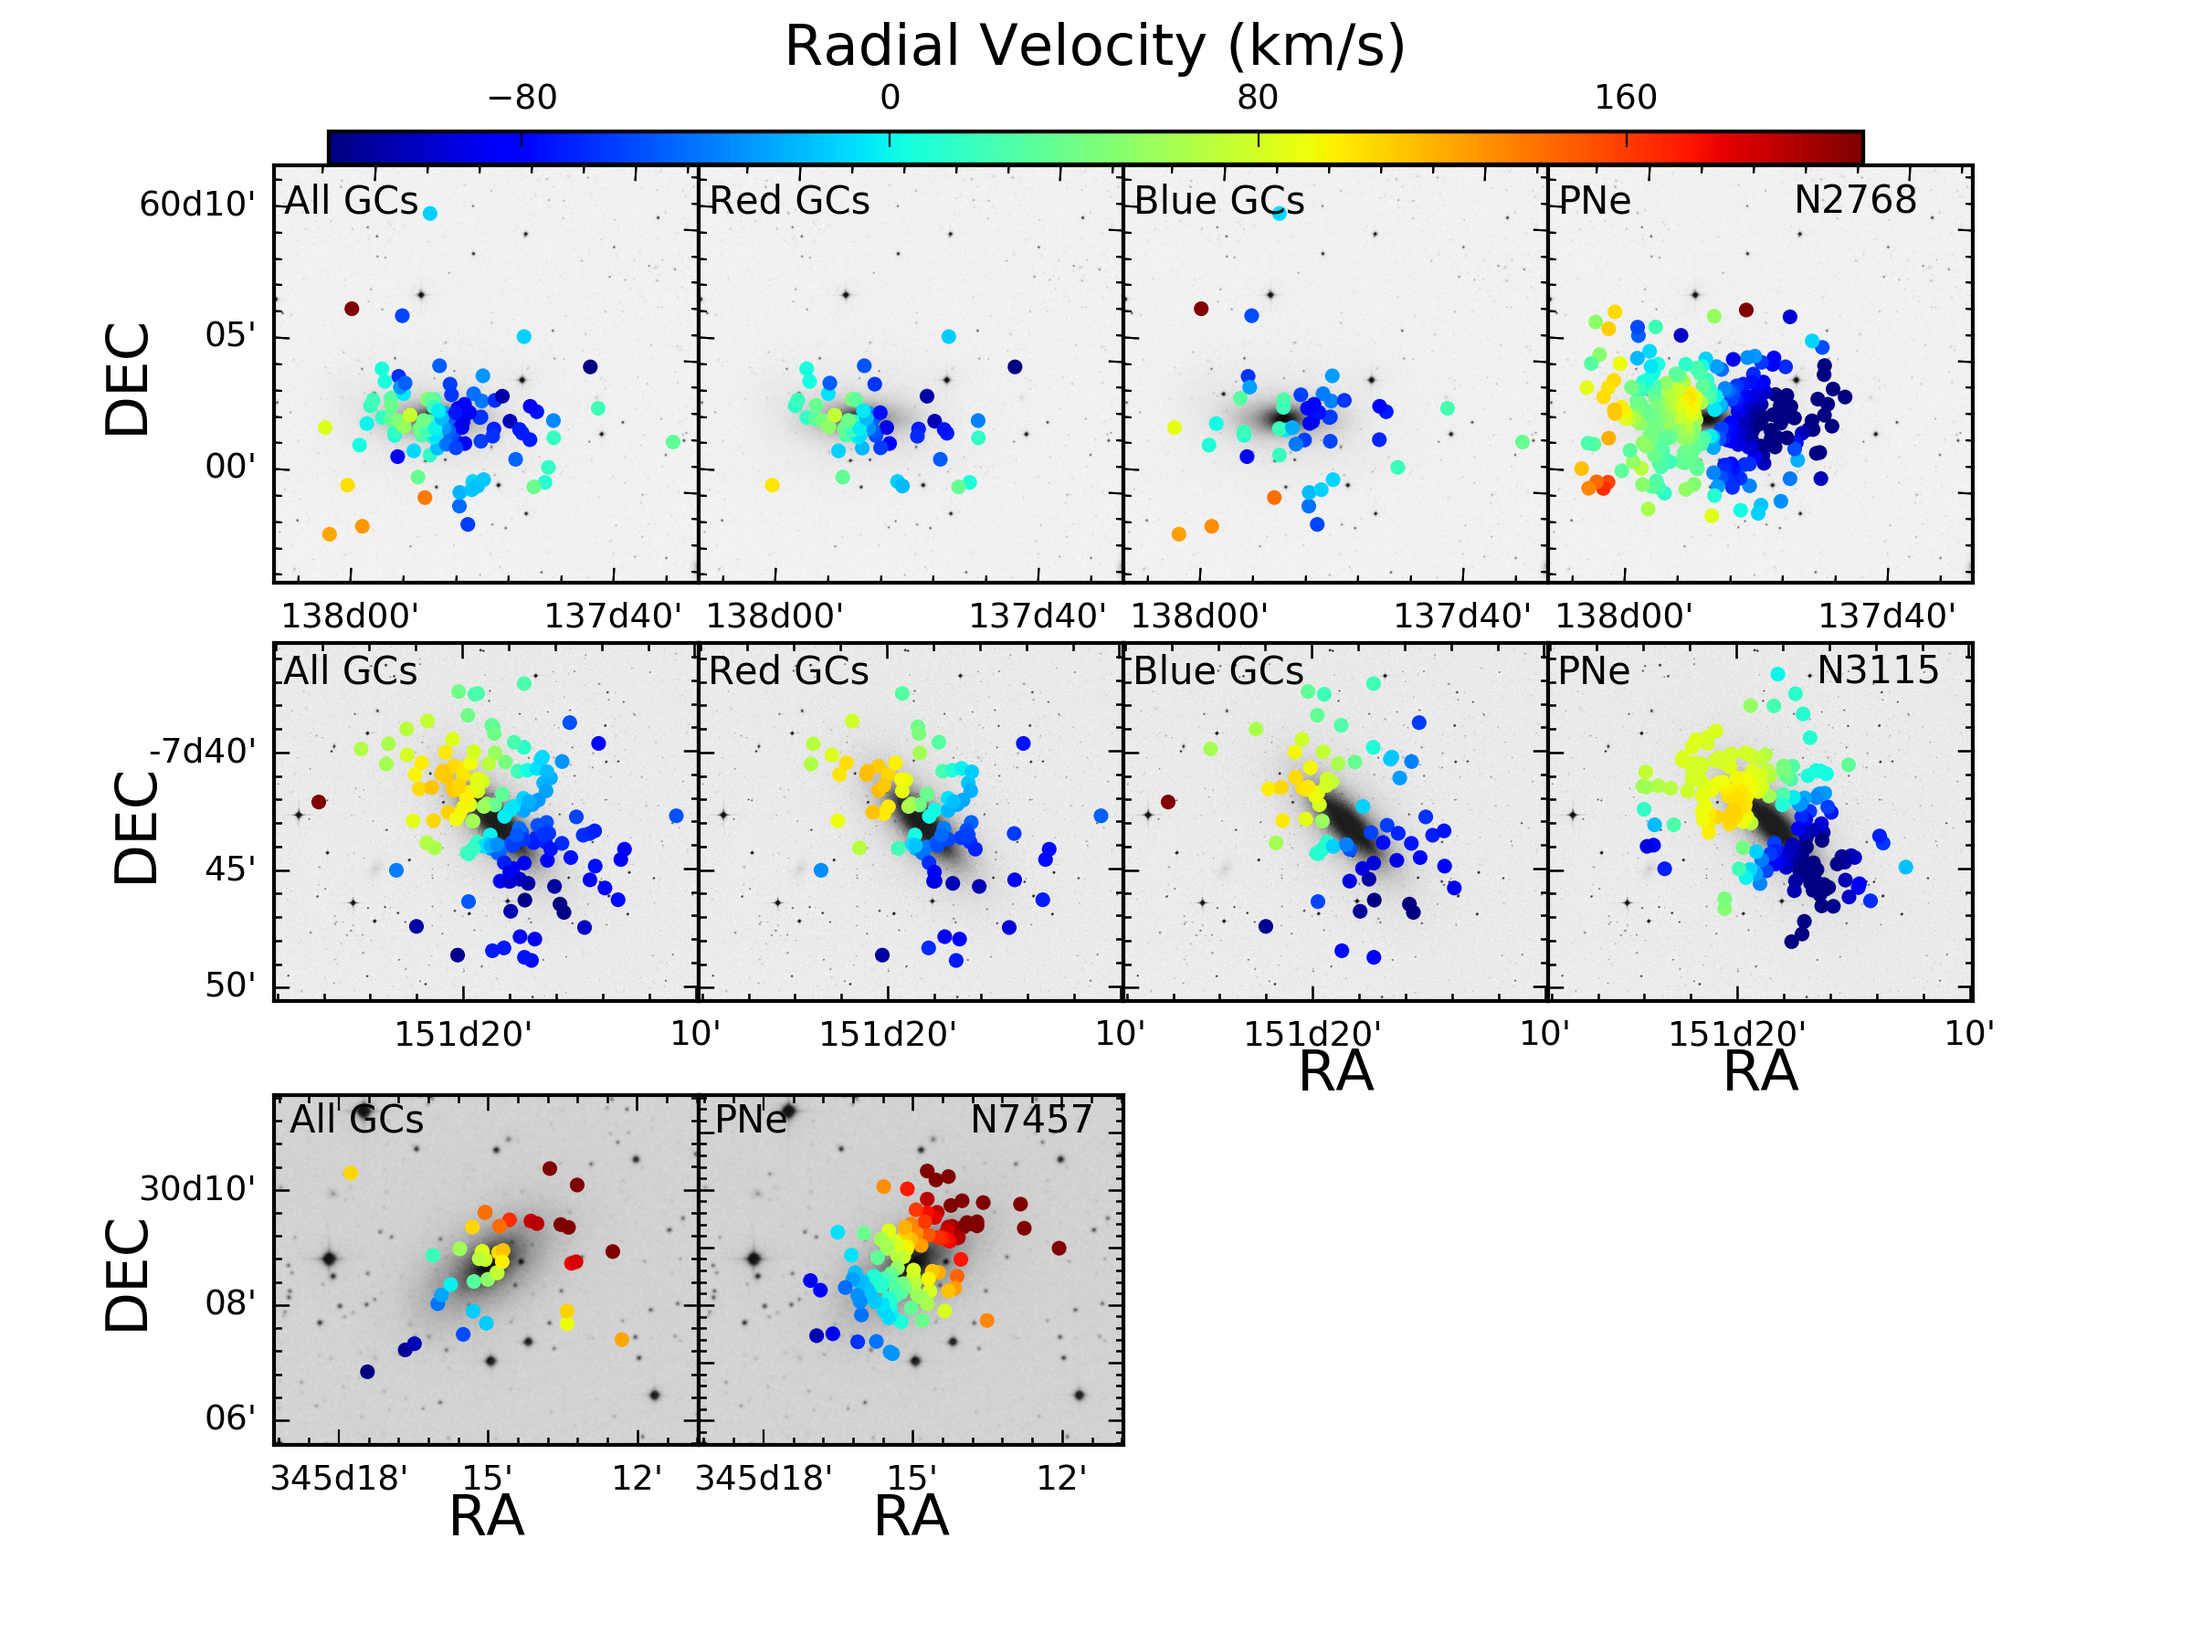
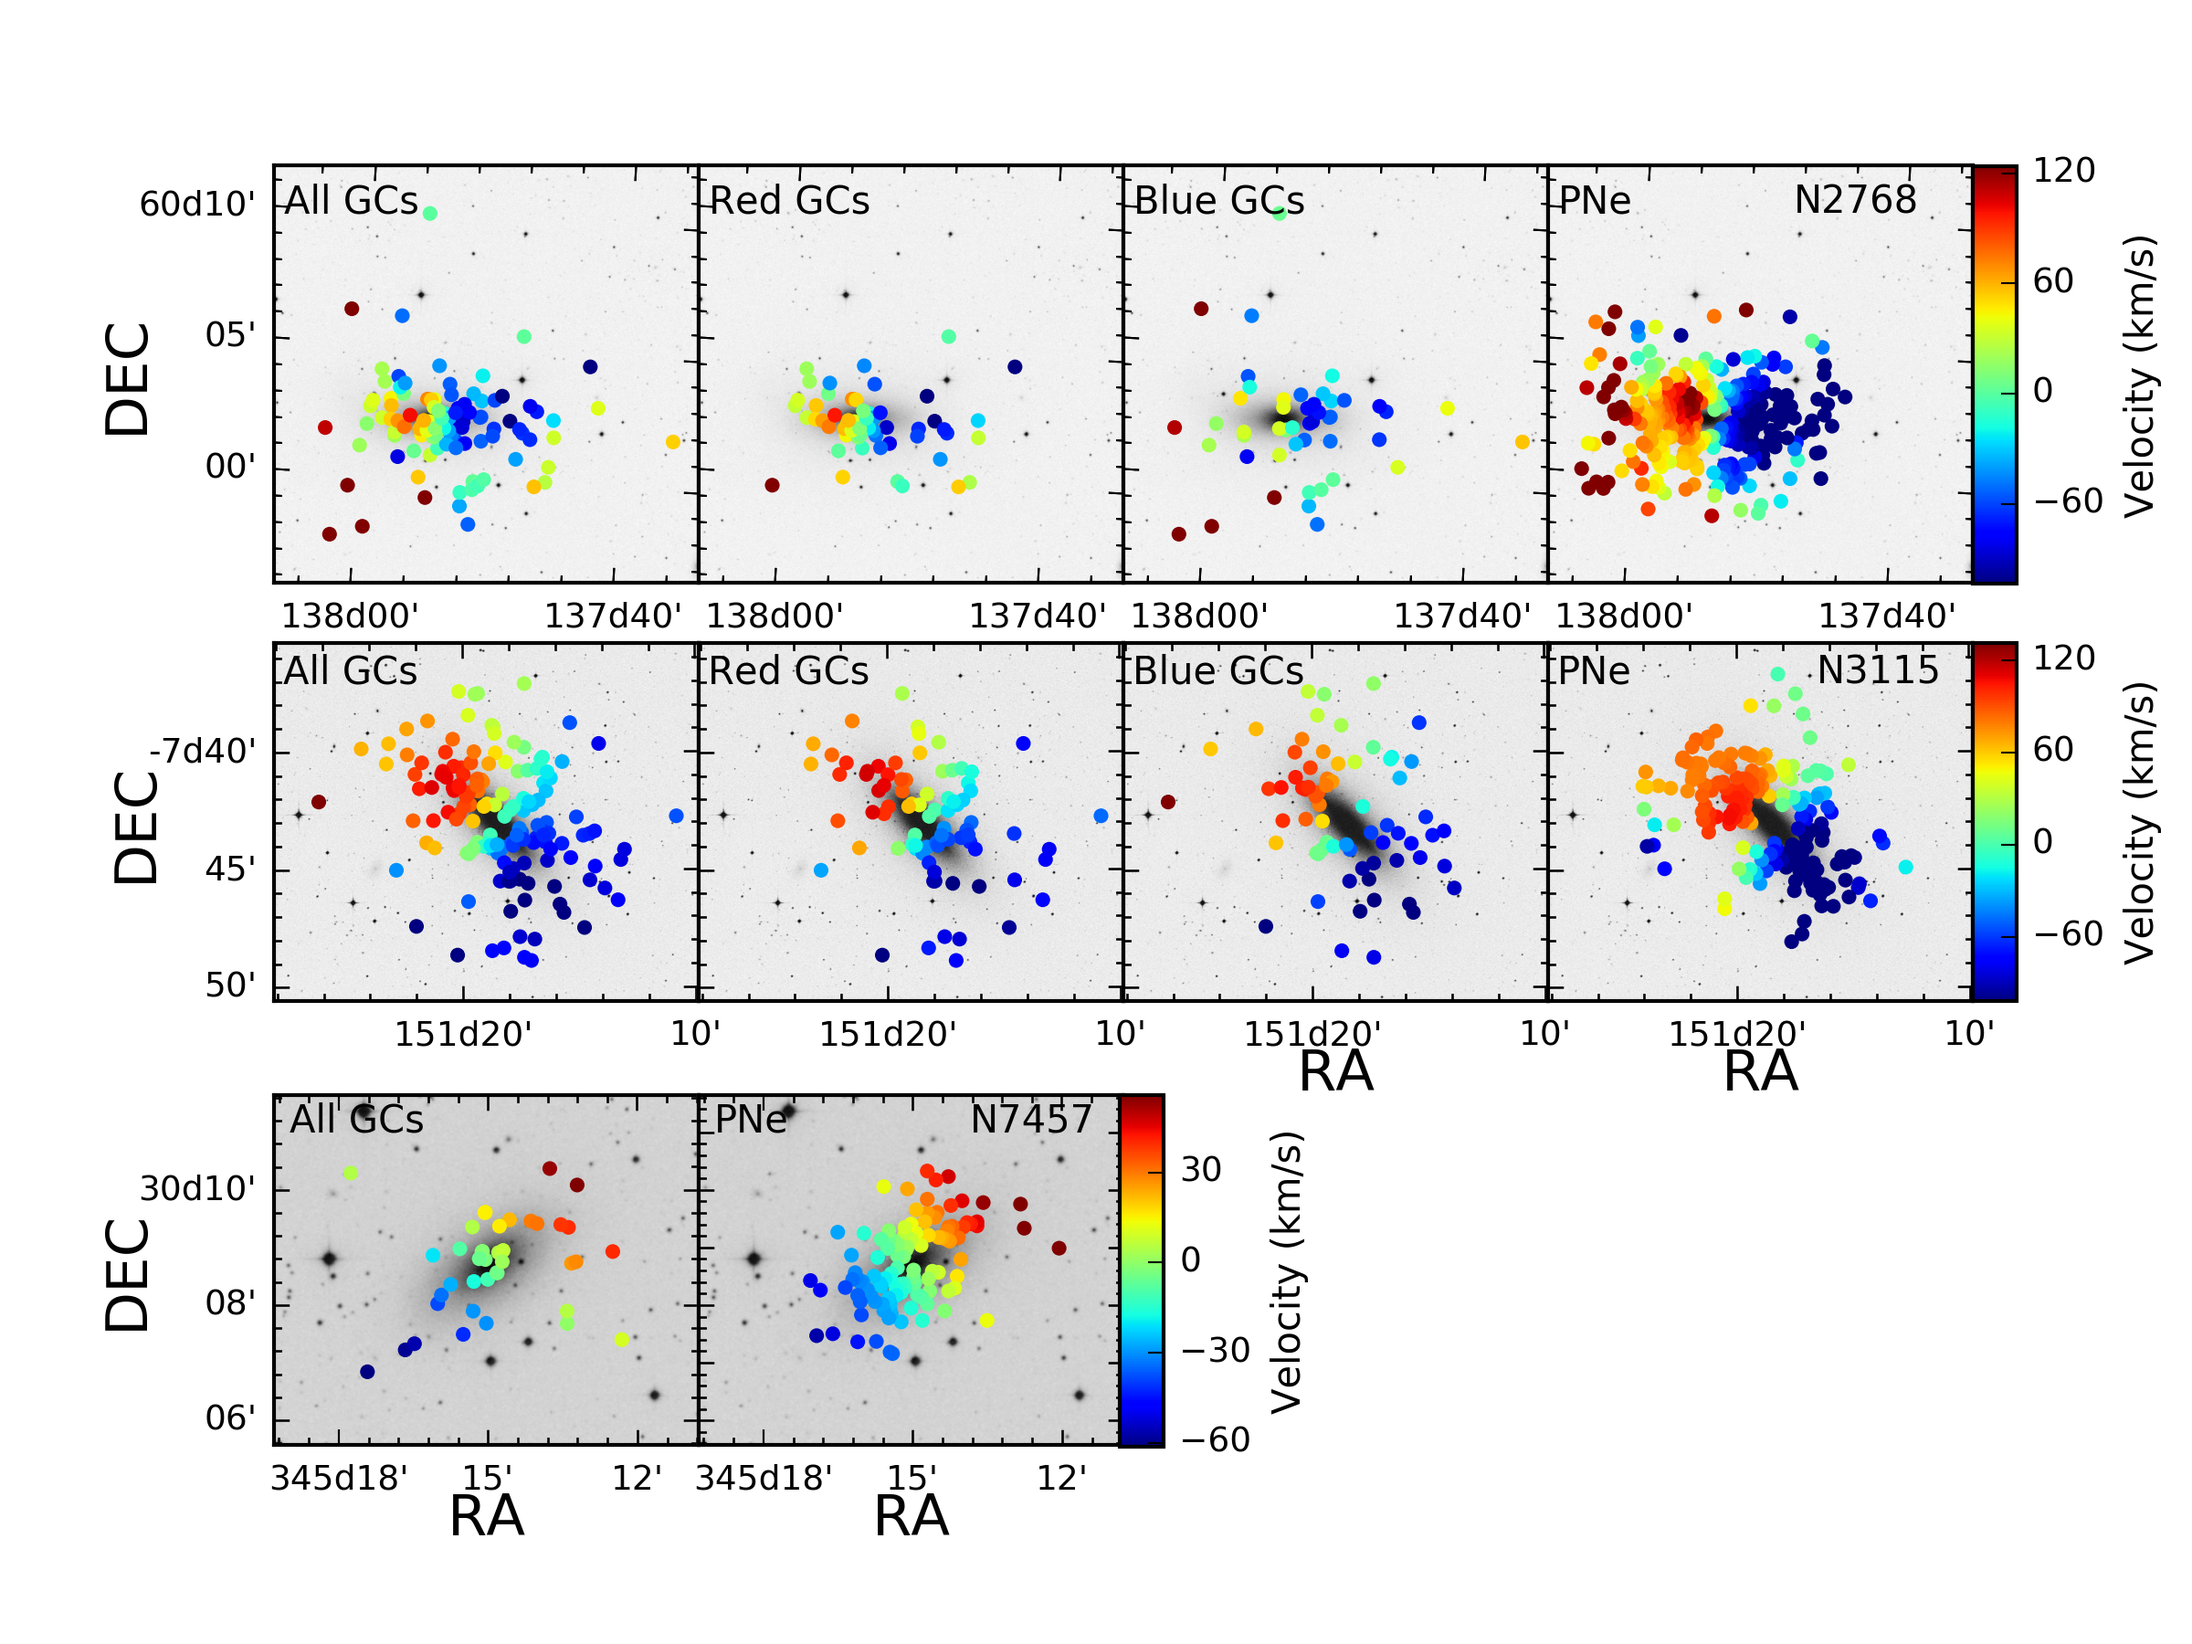
final smoothed

diff --git a/2.3/smoothed_velocity.py b/2.3/smoothed_velocity.py
@@ -136,7 +136,8 @@ def plot_vmap_tripleplot(path, vn, vnp, cs, gals):
     vcmapps, raps, decps = [],[],[]   
     
     f = plt.figure()
-    adj = 20
+    adj_max = [150,100]
+    adj_min = [20,20]
     for k in range(0, len(gals)):
         if k <= 1:
         
@@ -176,15 +177,15 @@ def plot_vmap_tripleplot(path, vn, vnp, cs, gals):
                 rap.append(pix_p[i][0])
                 decp.append(pix_p[i][1])
             
-            print 'N'+gals[k]
-            
             vcmap = vn[k] - np.mean(vn[k])
             vrcmap = vnrs[k] - np.mean(vnrs[k])
             vbcmap = vnbs[k] - np.mean(vnbs[k])
             vcmapp = vnp[k] - np.mean(vnp[k])
         
-            Vmin = min(vcmap)
-            Vmax = max(vcmap)-adj
+            Vmin = min(vcmap)+adj_min[k]
+            Vmax = max(vcmap)-adj_max[k]
+            
+            print 'N'+gals[k], max(vcmap)-np.median(vcmap), np.median(vcmap)-min(vcmap)
             
             vcmapps.append(vcmapp)
             vcmaps.append(vcmap)
@@ -250,7 +251,7 @@ def plot_vmap_tripleplot(path, vn, vnp, cs, gals):
             fig3 = f.add_subplot(3, 4, 4*k+3, projection=wcss[k])
             fig3.imshow(hdus[k], origin='lower',cmap='gray_r')
             fig3.text(min(ras[k])-0.08*max(ras[k]),max(decs[k]), 'Blue GCs', fontsize=10)            
-            p3 = fig3.scatter(rabs[k], decbs[k], s=15, c=vbcmaps[k], vmin=Vmins[k], vmax=Vmaxs[k], edgecolors='None', alpha=1.0)
+            fig3.scatter(rabs[k], decbs[k], s=15, c=vbcmaps[k], vmin=Vmins[k], vmax=Vmaxs[k], edgecolors='None', alpha=1.0)
             #p3 = fig3.scatter(rabs[l], decbs[l], s=30, c=vbcmaps[l], edgecolors='None', alpha=1.0)    
             #cax,kw = mpl.colorbar.make_axes(fig3.axes, fraction=0.047, shrink=1.0, pad=0.07)
             fig3.set_xlim(min(ras[k])-0.1*max(ras[k]), max(ras[k])+0.05*max(ras[k]))
@@ -266,14 +267,6 @@ def plot_vmap_tripleplot(path, vn, vnp, cs, gals):
             decx3.set_ticklabel_visible(False)
             rax3.display_minor_ticks(True)
             decx3.display_minor_ticks(True)
-            cbaxes = f.add_axes([0.15, 0.9, 0.7, 0.02])
-            cb = plt.colorbar(p3, cax = cbaxes, orientation='horizontal')
-            tick_locator = ticker.MaxNLocator(nbins=5)
-            cb.locator = tick_locator
-            cb.update_ticks()
-            cb.set_label('Radial Velocity (km/s)', fontsize=15)
-            cbaxes.xaxis.set_ticks_position('top')
-            cbaxes.xaxis.set_label_position('top')
             rax3.set_ticklabel(size=9)
             decx3.set_ticklabel(size=9)
               
@@ -281,7 +274,7 @@ def plot_vmap_tripleplot(path, vn, vnp, cs, gals):
             fig4.imshow(hdu.data, origin='lower',cmap='gray_r')
             fig4.text(min(ras[k])-0.08*max(ras[k]),max(decs[k]), 'PNe', fontsize=10)
             fig4.text(max(ras[k])-0.30*max(ras[k]),max(decs[k]), 'N'+gals[k], fontsize=10)            
-            fig4.scatter(raps[k], decps[k], s=15, c=vcmapps[k], vmin=Vmin, vmax=Vmax, edgecolors='None', alpha=1.0)      
+            p4 = fig4.scatter(raps[k], decps[k], s=15, c=vcmapps[k], vmin=Vmin, vmax=Vmax, edgecolors='None', alpha=1.0)      
             fig4.set_xlim(min(ras[k])-0.1*max(ras[k]), max(ras[k])+0.05*max(ras[k]))
             fig4.set_ylim(min(decs[k])-0.1*max(decs[k]), max(decs[k])+0.1*max(decs[k]))
             rax4 = fig4.coords[0]  
@@ -297,6 +290,24 @@ def plot_vmap_tripleplot(path, vn, vnp, cs, gals):
             #rax4.set_axislabel('RA', fontsize=15, minpad=0.4)    
             rax4.set_ticklabel(size=9)
             decx4.set_ticklabel(size=9)
+            if k==0:
+                cbaxes = f.add_axes([0.9, 0.645, 0.02, 0.254])
+                cb = plt.colorbar(p4, cax = cbaxes, orientation='vertical')
+                #cb = plt.colorbar(p4, orientation='vertical', fraction=0.07)
+                tick_locator = ticker.MaxNLocator(nbins=5)
+                cb.locator = tick_locator
+                cb.update_ticks()
+                cb.set_label('Velocity (km/s)', fontsize=10)
+            if k==1:
+                cbaxes = f.add_axes([0.9, 0.391, 0.02, 0.218])
+                cb = plt.colorbar(p4, cax = cbaxes, orientation='vertical')
+                #cb = plt.colorbar(p4, orientation='vertical', fraction=0.07)
+                tick_locator = ticker.MaxNLocator(nbins=5)
+                cb.locator = tick_locator
+                cb.update_ticks()
+                cb.set_label('Velocity (km/s)', fontsize=10)
+            #cbaxes.xaxis.set_ticks_position('top')
+            #cbaxes.xaxis.set_label_position('top')
             
             if k==1:
                 #rax2.set_axislabel('RA', fontsize=15, minpad=0.4)
@@ -317,8 +328,6 @@ def plot_vmap_tripleplot(path, vn, vnp, cs, gals):
             
             ra = []
             dec = []
-            
-            print 'N'+gals[k]
             
             pix = wcs.wcs_world2pix(coords, 1)
             
@@ -341,7 +350,9 @@ def plot_vmap_tripleplot(path, vn, vnp, cs, gals):
             vcmapp = vnp[k]-np.mean(vnp[k])
         
             Vmin = min(vcmap)
-            Vmax = max(vcmap)-adj
+            Vmax = max(vcmap)
+            
+            print 'N'+gals[k], max(vcmap)-np.median(vcmap), np.median(vcmap)-min(vcmap)
             
             fig1 = plt.subplot(3, 4, 9, projection=wcs)
             fig1.imshow(hdu.data, origin='lower',cmap='gray_r')
@@ -370,7 +381,7 @@ def plot_vmap_tripleplot(path, vn, vnp, cs, gals):
             fig4.imshow(hdu.data, origin='lower',cmap='gray_r')
             fig4.text(min(ra)-0.08*max(ra),max(dec)+0.05*max(dec), 'PNe', fontsize=10)
             fig4.text(max(ra)-0.1*max(ra), max(dec)+0.05*max(dec), 'N'+gals[k], fontsize=10)
-            fig4.scatter(rap, decp, s=15, c=vcmapp, vmin=Vmin, vmax=Vmax, edgecolors='None', alpha=1.0)   
+            p4 = fig4.scatter(rap, decp, s=15, c=vcmapp, vmin=Vmin, vmax=Vmax, edgecolors='None', alpha=1.0)   
             fig4.set_xlim(min(ra)-0.1*max(ra), max(ra)+0.1*max(ra))
             fig4.set_ylim(min(dec)-0.1*max(dec), max(dec)+0.1*max(dec))
             rax4 = fig4.coords[0]  
@@ -386,6 +397,13 @@ def plot_vmap_tripleplot(path, vn, vnp, cs, gals):
             rax4.set_axislabel('RA', fontsize=15, minpad=0.4)     
             rax4.set_ticklabel(size=9)
             decx4.set_ticklabel(size=9)
+            cbaxes = f.add_axes([0.511, 0.12, 0.02, 0.214])
+            cb = plt.colorbar(p4, cax = cbaxes, orientation='vertical')
+            #cb = plt.colorbar(p4, orientation='vertical', fraction=0.07)
+            tick_locator = ticker.MaxNLocator(nbins=5)
+            cb.locator = tick_locator
+            cb.update_ticks()
+            cb.set_label('Velocity (km/s)', fontsize=10)
             
     f.subplots_adjust(wspace=.0)
     f.subplots_adjust(hspace=.07)        
@@ -513,7 +531,7 @@ for gal in galaxies:
     pv = 0.0
     
     #upt = raw_input('Estimate A and B for %s? y/n: '%gal)
-    upt='y'
+    upt='n'
     if upt == 'y':
     
         print('calculating best A and B...')
